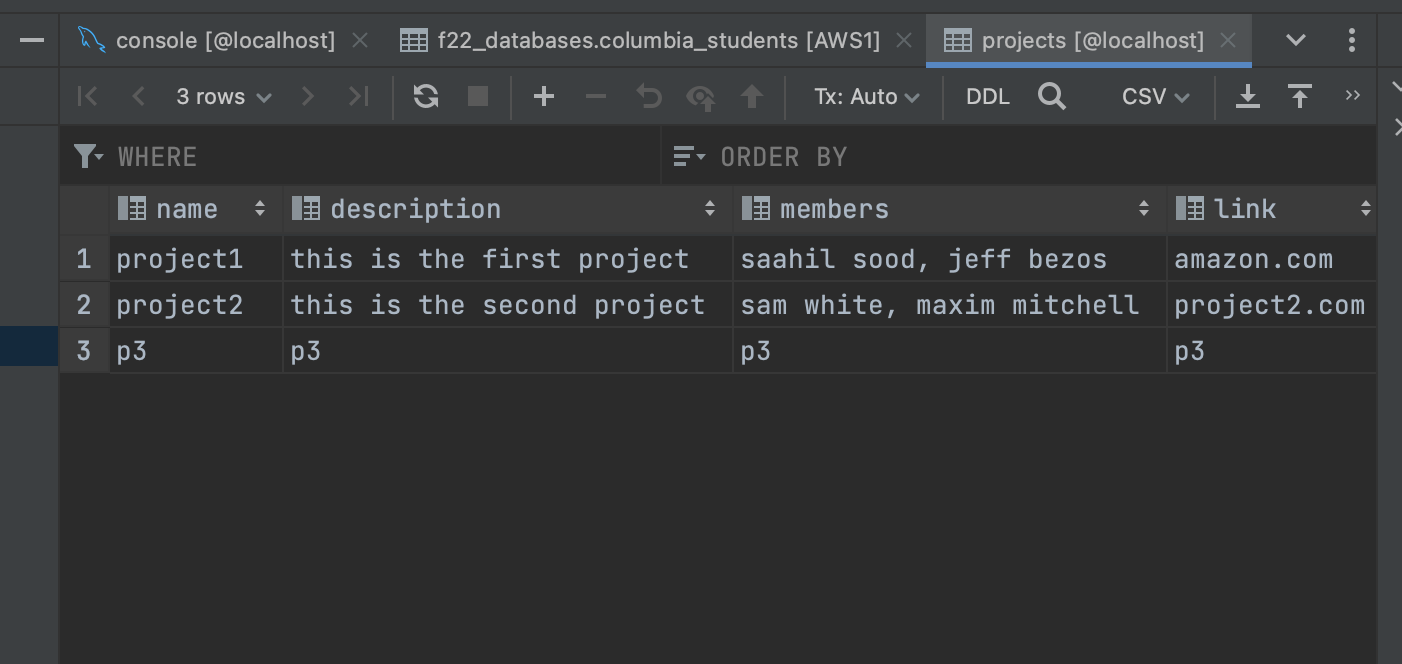
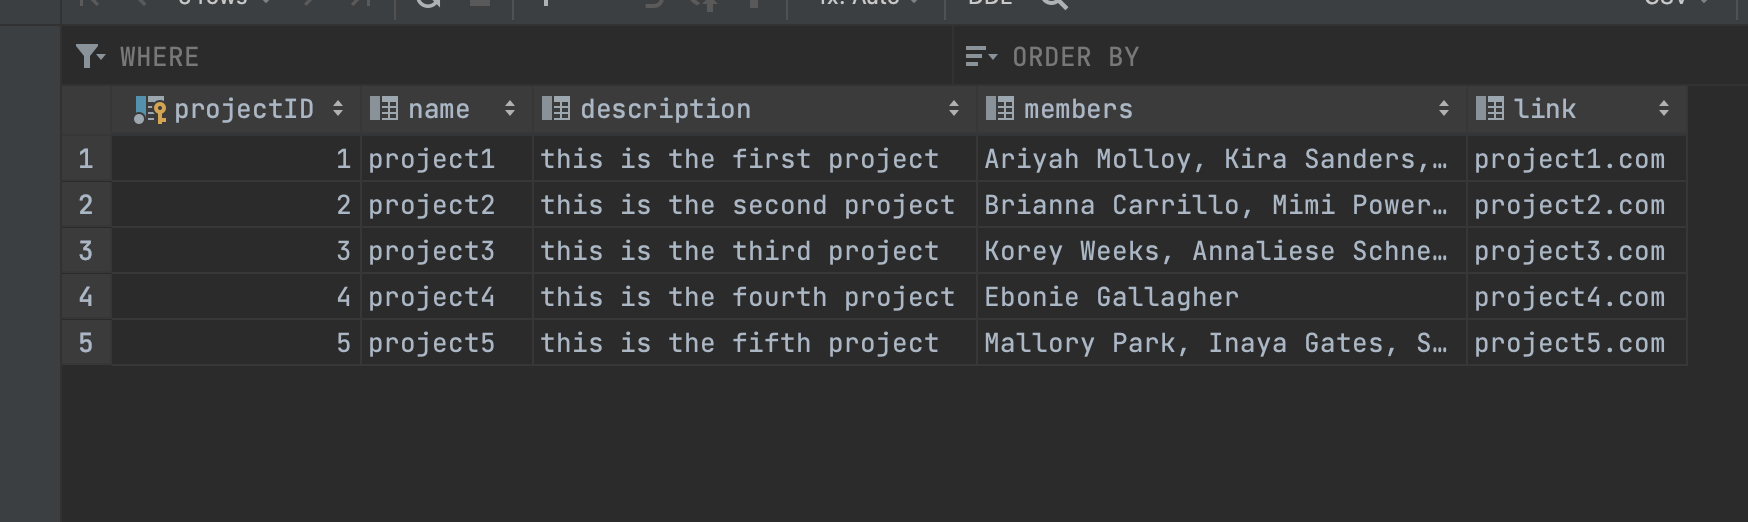
Changed basic structure, added more routes

diff --git a/app.js b/app.js
@@ -1,25 +1,93 @@
 import express from 'express'
-import {getAllProjects, getAProject, createAProject} from './database.js'
+import pool from './database.js'
+import bodyParser from 'body-parser'
 const app = express()
-
 app.use(express.json())
+app.use(bodyParser.urlencoded({
+	extended: true
+}))
 
-app.get('/projects', async (req, res) => {
-	const projects = await getAllProjects()
-	res.send(projects)
+const databaseTableName = process.env.MYSQL_DATABASE_TABLE_NAME
+const errorCheckingForAddUpdate = async (name, description, members, link) => {
+	const memberNames = members.split(', ')
+	console.log(memberNames)
+	const projects = await pool.query(`SELECT * FROM ${databaseTableName}`)
+	const listOfProjects = projects[0]
+	let errorMessage = ''
+	listOfProjects.forEach((project) => {
+		if (project.name === name) {
+			errorMessage = "project name already exists"
+		}
+		if (project.description === description) {
+			errorMessage = "project description already exists"	
+		}
+		if (project.link === link) {
+			errorMessage = "project link alaready exists"		
+		}
+		for (let i = 0; i < memberNames.length; i++) {
+			if (project.members.toLowerCase().includes(memberNames[i].toLowerCase())) {
+				errorMessage = "At least one member is already in another group"
+			}
+		}
+	})	
+	return errorMessage
+} 
+
+app.post('/seed', async(req, res) => {
+	await pool.query(`DELETE FROM ${databaseTableName}`)
+	await pool.query(`INSERT INTO ${databaseTableName} (projectID, name, description, members, link) VALUES (0, 'project1', 'this is the first project', 'Ariyah Molloy, Kira Sanders, Amit Ramsay', 'project1.com')`)
+	await pool.query(`INSERT INTO ${databaseTableName} (name, description, members, link) VALUES ('project2', 'this is the second project', 'Brianna Carrillo, Mimi Power, Letitia Macleod, Ronald Villalobos', 'project2.com')`)
+	await pool.query(`INSERT INTO ${databaseTableName} (name, description, members, link) VALUES ('project3', 'this is the third project', 'Korey Weeks, Annaliese Schneider', 'project3.com')`)
+	await pool.query(`INSERT INTO ${databaseTableName} (name, description, members, link) VALUES ('project4', 'this is the fourth project', 'Ebonie Gallagher', 'project4.com')`)
+	await pool.query(`INSERT INTO ${databaseTableName} (name, description, members, link) VALUES ('project5', 'this is the fifth project', 'Mallory Park, Inaya Gates, Sam Hobbs, Jordi Wickens, Azaan Terrell, Zain Ortiz', 'project5.com')`)
+	res.status(201).send('seeded database with initial values')
 })
 
-app.get('/project/:name', async (req, res) => {
-	const name = req.params.name
-	const project = await getAProject(name);
-	res.send(project)
+app.get('/projects', async (req, res) => {
+	const projects = await pool.query(`SELECT * FROM ${databaseTableName}`)
+	res.json(projects[0])
+})
+
+app.get('/projects/:name', async (req, res) => {
+	const project = await pool.query(`SELECT * FROM projects where name = ?`,[req.params.name])
+	if (project[0][0]) {
+		res.json(project[0][0])
+	} else {
+		res.status(404).json({status: "error", message: "project does not exist"})
+	}
 })
 
 app.post('/projects', async (req, res) => {
 	const {name, description, members, link} = req.body
-	const result = await createAProject(name, description, members, link)
-	res.status(201).send(result)
+	const errorMessage = errorCheckingForAddUpdate(name, description, members, link)
+	if (errorMessage === '') {
+		res.status(201).json({status: "success", message: "successfully added new project"})
+	} else {
+		res.status(401).json({status: "error", message: errorMessage})		
+	}
+
 })
+
+app.put('/projects/:name', async (req, res) => {
+	const {name, description, members, link} = req.body
+	const errorMessage = errorCheckingForAddUpdate(name, description, members, link)
+	if (errorMessage === '') {
+		res.status(201).json({status: "success", message: "successfully updated new project"})
+	} else {
+		res.status(401).json({status: "error", message: errorMessage})		
+	}
+})
+
+app.delete('/projects/:name', async (req, res) => {
+	const {name, description, members, link} = req.body
+	const errorMessage = errorCheckingForAddUpdate(name, description, members, link)
+	if (errorMessage === '') {
+		res.status(201).json({status: "success", message: "successfully updated new project"})
+	} else {
+		res.status(401).json({status: "error", message: errorMessage})		
+	}
+})
+
 app.use((err, req, res, next) => {
 	console.error(err.stack)
 	res.status(500).send('Something broke!')

diff --git a/database.js b/database.js
@@ -10,18 +10,20 @@ const pool = mysql.createPool({
 	database: process.env.MYSQL_DATABASE
 }).promise()
 
-export const getAllProjects = async () => {
-	const result = await pool.query('SELECT * FROM projects')
-	return result[0]
-}
+export default pool
 
-export const getAProject = async (name) => {
-	const result = await pool.query(`SELECT * FROM projects where name = ?`,[name])
-	return result[0][0]
-}
+// export const getAllProjects = async () => {
+// 	const result = await pool.query('SELECT * FROM projects')
+// 	return result[0]
+// }
 
-export const createAProject = async(name, description, members, link) => {
-	const result = await pool.query(`INSERT INTO projects VALUES (?,?,?,?)`, [name, description, members, link]) 
-	return result
-}
+// export const getAProject = async (name) => {
+// 	const result = await pool.query(`SELECT * FROM projects where name = ?`,[name])
+// 	return result[0][0]
+// }
+
+// export const createAProject = async(name, description, members, link) => {
+// 	const result = await pool.query(`INSERT INTO projects VALUES (?,?,?,?)`, [name, description, members, link]) 
+// 	return result
+// }
 
